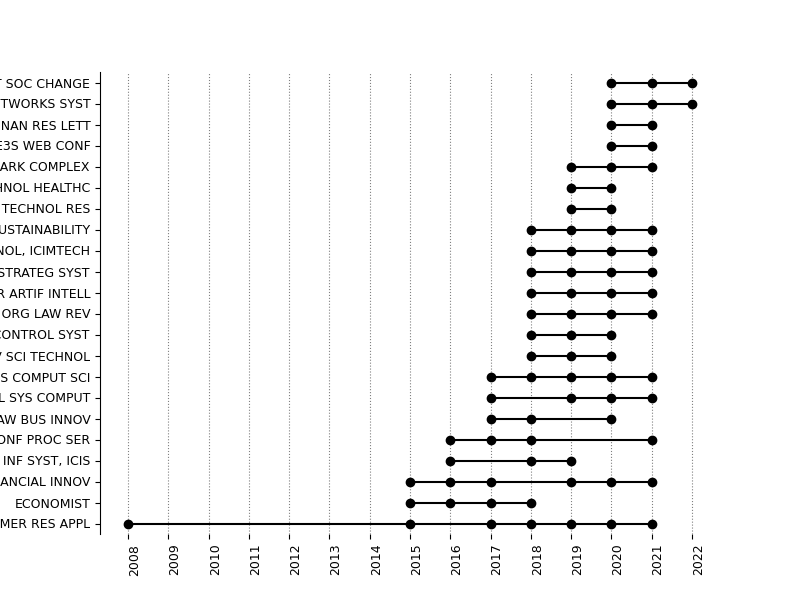
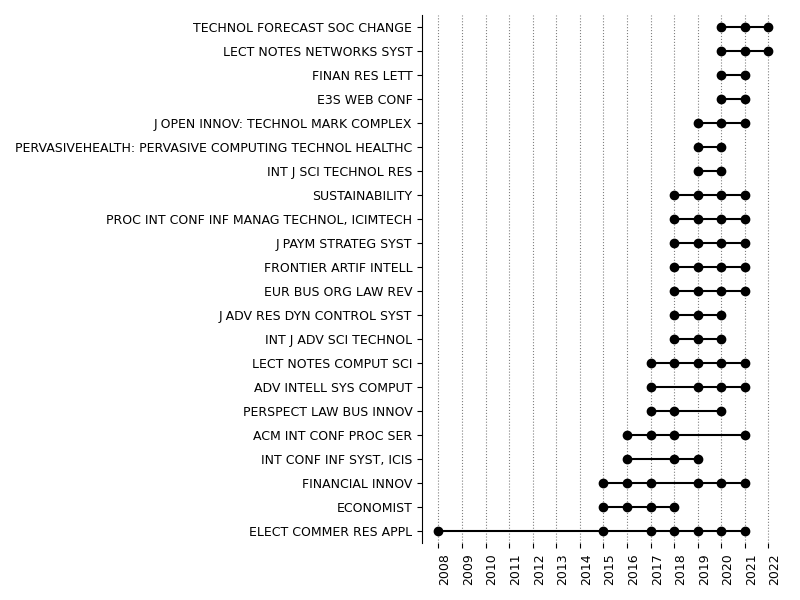
fix colors timeline_chart

Changed region(s): [[0.0, 0.12, 0.9688, 0.99], [0.25, 0.03, 0.5312, 0.09], [0.875, 0.03, 0.9688, 0.09]]

diff --git a/techminer/timeline_chart.py b/techminer/timeline_chart.py
@@ -6,7 +6,7 @@ Timeline chart
 >>> directory = "/workspaces/techminer-api/tests/data/"
 >>> file_name = "/workspaces/techminer-api/sphinx/images/timeline_chart.png"
 >>> data = annual_occurrence_matrix(directory, 'iso_source_name',  min_occ=10)
->>> timeline_chart(data, color='grey', figsize=(8, 6)).savefig(file_name)
+>>> timeline_chart(data, color='tab:blue', figsize=(8, 6)).savefig(file_name)
 
 .. image:: images/timeline_chart.png
     :width: 700px
@@ -22,7 +22,7 @@ import pandas as pd
 TEXTLEN = 40
 
 
-def timeline_chart(annual_occurrence_matrix, color="grey", figsize=(8, 6)):
+def timeline_chart(annual_occurrence_matrix, color="tab:blue", figsize=(8, 6)):
 
     data = annual_occurrence_matrix.copy()
     column = data.index.name

diff --git a/techminer/dotted_timeline_chart.py b/techminer/dotted_timeline_chart.py
@@ -77,4 +77,6 @@ def dotted_timeline_chart(annual_occurrence_matrix, color="grey", figsize=(8, 6)
 
     ax.grid(axis="x", color="gray", linestyle=":")
 
+    fig.set_tight_layout(True)
+
     return fig
